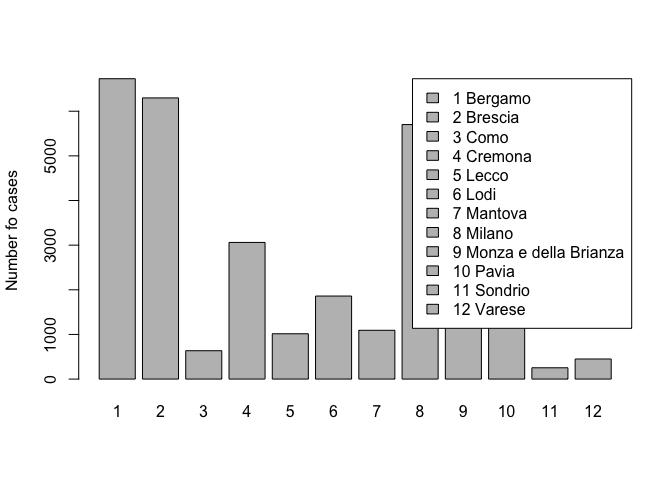
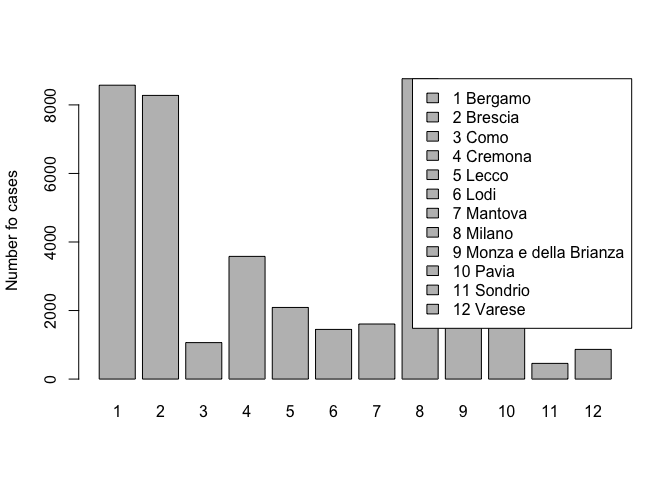
Add home page, navigation and theme

diff --git a/BYM_model/INLA_def.md b/BYM_model/INLA_def.md
@@ -1,7 +1,7 @@
 COVID19 - Forecast and predictions using a BYM model in Italy
 ================
 Paolo Girardi
-25 Marzo, 2020
+30 Marzo, 2020
 
 <a rel="license" href="http://creativecommons.org/licenses/by-nc/4.0/"><img alt="Creative Commons License" style="border-width:0" src="https://i.creativecommons.org/l/by-nc/4.0/88x31.png" /></a><br />This
 work is licensed under a
@@ -98,6 +98,10 @@ and load them.
 
 # Datasets loading
 
+    ## Warning in dat_csv$totale_casi[dat_csv$data != "2020-02-24 18:00:00"] <-
+    ## unlist(tapply(dat_csv$totale_casi, : il numero di elementi da sostituire
+    ## non è un multiplo della lunghezza di sostituzione
+
     ## Warning: readShapePoly is deprecated; use rgdal::readOGR or sf::st_read
 
 # Spatial analysis with R-INLA and BYM
@@ -138,11 +142,11 @@ We create new variables that are required by INLA procedure.
     ## 
     ## Time used:
     ##  Pre-processing    Running inla Post-processing           Total 
-    ##          2.4459          1.4682          0.2672          4.1814 
+    ##          3.0132          3.1908          0.3932          6.5972 
     ## 
     ## Fixed effects:
     ##                mean     sd 0.025quant 0.5quant 0.975quant    mode   kld
-    ## (Intercept) -9.3276 0.0657    -9.4646  -9.3276    -9.1907 -9.3276 6e-04
+    ## (Intercept) -9.1279 0.0637    -9.2625  -9.1279    -8.9932 -9.1278 0.001
     ## 
     ## Random effects:
     ## Name   Model
@@ -150,20 +154,20 @@ We create new variables that are required by INLA procedure.
     ## 
     ## Model hyperparameters:
     ##                                         mean      sd 0.025quant 0.5quant
-    ## Precision for ID (iid component)     96.7557 96.7986     6.7748  68.1280
-    ## Precision for ID (spatial component)  0.6252  0.2534     0.2512   0.5866
+    ## Precision for ID (iid component)     94.8509 94.5801     6.5082  66.8721
+    ## Precision for ID (spatial component)  0.9509  0.3915     0.3777   0.8897
     ##                                      0.975quant    mode
-    ## Precision for ID (iid component)        354.651 18.5563
-    ## Precision for ID (spatial component)      1.231  0.5085
+    ## Precision for ID (iid component)        346.818 17.8407
+    ## Precision for ID (spatial component)      1.892  0.7669
     ## 
-    ## Expected number of effective parameters(std dev): 12.15(0.0103)
-    ## Number of equivalent replicates : 29.62 
+    ## Expected number of effective parameters(std dev): 12.22(0.0093)
+    ## Number of equivalent replicates : 35.34 
     ## 
-    ## Deviance Information Criterion (DIC) ...............: 30849.47
-    ## Deviance Information Criterion (DIC, saturated) ....: 29172.81
-    ## Effective number of parameters .....................: 12.16
+    ## Deviance Information Criterion (DIC) ...............: 37088.56
+    ## Deviance Information Criterion (DIC, saturated) ....: 34925.78
+    ## Effective number of parameters .....................: 12.24
     ## 
-    ## Marginal log-Likelihood:  -15475.91 
+    ## Marginal log-Likelihood:  -18598.49 
     ## Posterior marginals for linear predictor and fitted values computed
 
 ![](INLA_def_files/figure-gfm/unnamed-chunk-8-1.png)<!-- --> The image
@@ -176,7 +180,7 @@ the temporal trend of COVID-19 in the reported temporal window. The
 observed number of COVID-19 a the time \(t\), , is modelled as follows  
 \[
 y_{t} \sim Poisson (\lambda_{t})
-\] with t=1,…,30. \\end{center} where the quantity
+\] with t=1,…,36. \\end{center} where the quantity
 \(\frac{\lambda_{t}}\), is modelled by a Random Walk of order 2 variable
 \[
 log({\lambda_{it}})=\alpha+\gamma_t+\phi_t, 
@@ -191,11 +195,11 @@ errors. ![](INLA_def_files/figure-gfm/unnamed-chunk-9-1.png)<!-- -->
     ## 
     ## Time used:
     ##  Pre-processing    Running inla Post-processing           Total 
-    ##          1.8884          6.7836          0.1213          8.7934 
+    ##          4.1249          8.1949          0.1426         12.4624 
     ## 
     ## Fixed effects:
     ##               mean     sd 0.025quant 0.5quant 0.975quant   mode kld
-    ## (Intercept) 1.8219 0.2994     1.2335   1.8221     2.4086 1.8226   0
+    ## (Intercept) 2.1492 0.2671     1.6248   2.1492     2.6732 2.1492   0
     ## 
     ## Random effects:
     ## Name   Model
@@ -203,18 +207,18 @@ errors. ![](INLA_def_files/figure-gfm/unnamed-chunk-9-1.png)<!-- -->
     ## t2   IID model 
     ## 
     ## Model hyperparameters:
-    ##                      mean        sd 0.025quant 0.5quant 0.975quant    mode
-    ## Precision for t  3752.477 7307.1653     203.54 1750.058  19800.319 507.374
-    ## Precision for t2    2.262    0.7552       1.09    2.163      4.027   1.969
+    ##                    mean      sd 0.025quant 0.5quant 0.975quant   mode
+    ## Precision for t  558.96 357.841     128.46   477.12    1475.74 323.84
+    ## Precision for t2  28.19   7.976      15.43    27.25      46.49  25.47
     ## 
-    ## Expected number of effective parameters(std dev): 31.20(0.2224)
-    ## Number of equivalent replicates : 11.54 
+    ## Expected number of effective parameters(std dev): 36.24(0.2968)
+    ## Number of equivalent replicates : 11.92 
     ## 
-    ## Deviance Information Criterion (DIC) ...............: 32450.51
-    ## Deviance Information Criterion (DIC, saturated) ....: 30773.85
-    ## Effective number of parameters .....................: 29.81
+    ## Deviance Information Criterion (DIC) ...............: 50638.53
+    ## Deviance Information Criterion (DIC, saturated) ....: 48475.76
+    ## Effective number of parameters .....................: 35.23
     ## 
-    ## Marginal log-Likelihood:  -16398.12 
+    ## Marginal log-Likelihood:  -25513.77 
     ## Posterior marginals for linear predictor and fitted values computed
 
 ![](INLA_def_files/figure-gfm/unnamed-chunk-9-2.png)<!-- -->![](INLA_def_files/figure-gfm/unnamed-chunk-9-3.png)<!-- -->
@@ -222,7 +226,7 @@ We now consider a BYM model with spatial and temporal components and
 their complete interactions (Type IV). The observed number of COVID-19,
 , was modelled as: \[
 y_{it} \sim Poisson (\lambda_{it})\\
-\] with i=1,..,12, and t=1,…,30. We modelled the ratio
+\] with i=1,..,12, and t=1,…,36. We modelled the ratio
 \(\frac{\lambda_{it}}{N_{i}}\), the Incidence of COVID-19, with a BYM
 model including temporal covariates as follows  
 \[
@@ -256,13 +260,13 @@ Besag), but are temporally unstructured. -TypeVI: coefficients
 \(\delta_{it}\) have both a spatial and temporal structure. It is the
 most complex type of space-time interaction.
 
-    ## [1] 2373.575
+    ## [1] 3073.61
 
-    ## [1] 2423.39
+    ## [1] 3087.757
 
-    ## [1] 2391.416
+    ## [1] 3072.782
 
-    ## [1] 2408.876
+    ## [1] 3072.805
 
 The time and space component mean estimates can be extracted here
 
@@ -278,8 +282,8 @@ province.
 ![](INLA_def_files/figure-gfm/unnamed-chunk-13-1.png)<!-- -->![](INLA_def_files/figure-gfm/unnamed-chunk-13-2.png)<!-- -->![](INLA_def_files/figure-gfm/unnamed-chunk-13-3.png)<!-- -->
 
     ##           used  (Mb) gc trigger  (Mb) limit (Mb) max used  (Mb)
-    ## Ncells 2743715 146.6    4582575 244.8         NA  4582575 244.8
-    ## Vcells 6959683  53.1   12255594  93.6      16384 10146329  77.5
+    ## Ncells 2753205 147.1    4581944 244.8         NA  4581944 244.8
+    ## Vcells 7162042  54.7   12255594  93.6      16384 10146329  77.5
 
 ![](INLA_def_files/figure-gfm/unnamed-chunk-14-1.png)<!-- -->
 
@@ -297,13 +301,13 @@ reason, the intercept is not included in the linear predictor.
     ## 
     ## Time used:
     ##  Pre-processing    Running inla Post-processing           Total 
-    ##          2.7898         67.6722          0.2082         70.6702 
+    ##          3.1972         85.4394          0.7757         89.4124 
     ## 
     ## Fixed effects:
     ##               mean     sd 0.025quant 0.5quant 0.975quant   mode kld
-    ## (Intercept) 0.6673 0.3182     0.0424   0.6674     1.2913 0.6676   0
-    ## log(pop)    0.0556 0.0239     0.0085   0.0556     0.1025 0.0556   0
-    ## hubei       0.0001 0.0000     0.0000   0.0001     0.0001 0.0001   0
+    ## (Intercept) 0.7587 0.2926     0.1839   0.7587     1.3324 0.7589   0
+    ## log(pop)    0.0635 0.0221     0.0201   0.0635     0.1067 0.0635   0
+    ## hubei       0.0000 0.0000     0.0000   0.0000     0.0001 0.0000   0
     ## 
     ## Random effects:
     ## Name   Model
@@ -314,26 +318,26 @@ reason, the intercept is not included in the linear predictor.
     ## 
     ## Model hyperparameters:
     ##                                           mean        sd 0.025quant
-    ## Precision for ID (iid component)        0.7939    0.3218     0.3198
-    ## Precision for ID (spatial component) 1890.1248 1849.3391   126.0569
-    ## Precision for t                       401.7140  398.2981    50.1432
-    ## Precision for t2                        3.5775    1.4267     1.5520
-    ## Precision for over                      1.6947    0.1721     1.3782
-    ##                                       0.5quant 0.975quant    mode
-    ## Precision for ID (iid component)        0.7445      1.565   0.645
-    ## Precision for ID (spatial component) 1345.0353   6783.182 343.784
-    ## Precision for t                       285.7903   1455.365 134.653
-    ## Precision for t2                        3.3258      7.069   2.873
-    ## Precision for over                      1.6873      2.055   1.674
+    ## Precision for ID (iid component)     1.147e+00 4.985e-01     0.4373
+    ## Precision for ID (spatial component) 1.836e+03 1.825e+03   125.7771
+    ## Precision for t                      5.572e+02 3.882e+02   109.3506
+    ## Precision for t2                     1.836e+04 1.825e+04  1279.9079
+    ## Precision for over                   5.613e-01 4.660e-02     0.4741
+    ##                                       0.5quant 0.975quant      mode
+    ## Precision for ID (iid component)     1.062e+00  2.362e+00    0.8980
+    ## Precision for ID (spatial component) 1.296e+03  6.661e+03  343.8411
+    ## Precision for t                      4.638e+02  1.561e+03  288.3685
+    ## Precision for t2                     1.297e+04  6.655e+04 3524.8877
+    ## Precision for over                   5.598e-01  6.575e-01    0.5574
     ## 
-    ## Expected number of effective parameters(std dev): 305.10(2.552)
-    ## Number of equivalent replicates : 1.18 
+    ## Expected number of effective parameters(std dev): 412.69(1.509)
+    ## Number of equivalent replicates : 1.047 
     ## 
-    ## Deviance Information Criterion (DIC) ...............: 2374.92
-    ## Deviance Information Criterion (DIC, saturated) ....: 698.26
-    ## Effective number of parameters .....................: 294.65
+    ## Deviance Information Criterion (DIC) ...............: 3078.39
+    ## Deviance Information Criterion (DIC, saturated) ....: 915.61
+    ## Effective number of parameters .....................: 400.49
     ## 
-    ## Marginal log-Likelihood:  -1716.57 
+    ## Marginal log-Likelihood:  -2353.42 
     ## Posterior marginals for linear predictor and fitted values computed
 
 ![](INLA_def_files/figure-gfm/unnamed-chunk-17-1.png)<!-- -->
